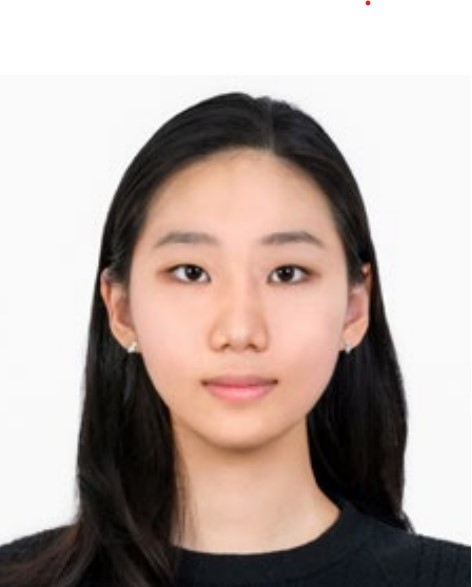
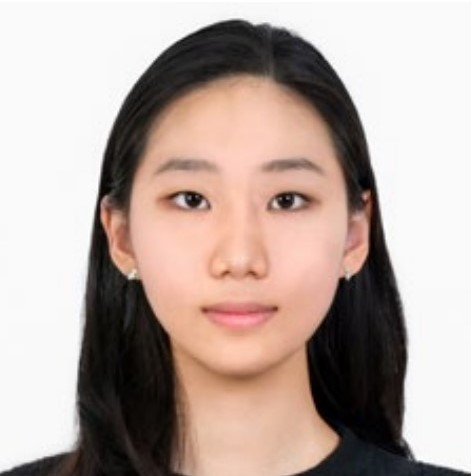
Update website.
Updated team bio images, fixed architecture section.

diff --git a/index.html b/index.html
@@ -122,13 +122,12 @@
     <p>The project aims to assist first-year Oliners in planning their course schedules. Data collected are non-sensitive user preferences. Potential malicious behavior, such as brute force attacks or data theft, is mitigated by not storing sensitive information.</p> -->
     
     <h2>Architecture</h2>
-    <p><ul>
+    <ul>
         <li>Model: returns a dataframe with full schedule based on user input constraints (major, study abroad, LOA, graduating early) and predicted course offerings.</li>
         <li>View: shows tkinter window, dropdown, and button</li>
         <li>Controller: handles user input and updates our model with different constraints</li>
         </ul>
-        <br>
-        Below is a diagram of how our model generates the courses for the four-year course plan.</p>
+        <p>Below is a diagram of how our model generates the courses for the four-year course plan.</p>
         <img src="model.jpg" alt="model diagram" width="1027px" height="397px">
     <!-- <p>The project maintains user data (major, preferences) and generates a four-year course plan. This information is stored in classes like User and CoursePlan.</p> -->
     
